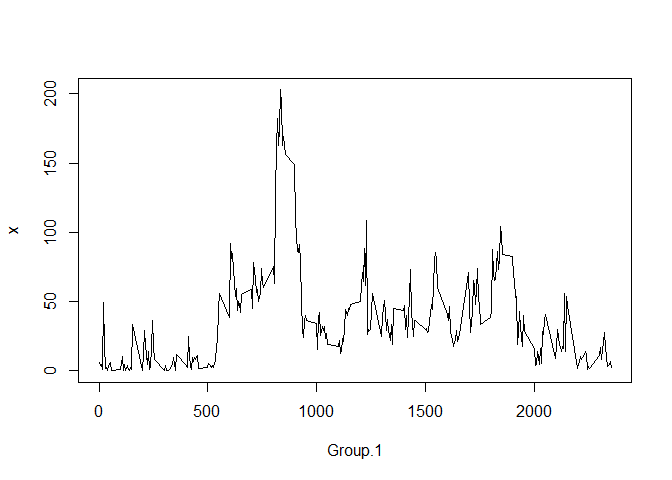
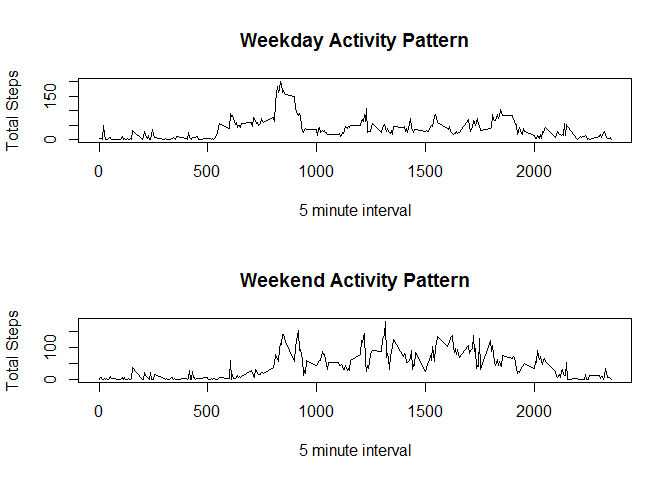
Project Submission Final

diff --git a/PA1_template.html b/PA1_template.html
@@ -104,8 +104,11 @@ colnames(activitydatatotalbydate) &lt;- c(&quot;Date&quot;, &quot;TotalSteps&quo
 <h2>Imputing missing values</h2>
 <p>For replaceing the missing values I have used the MICE package’s mice() function. Please refer to full documentation at <a href="https://cran.r-project.org/web/packages/mice/mice.pdf" class="uri">https://cran.r-project.org/web/packages/mice/mice.pdf</a>. Specifically I used the “pmm” method referenced in page 67.</p>
 <p>I have used md.patter to find the total number of missing values in the dataset (i.e. the total number of rows with NAs)</p>
-<pre class="r"><code>library(mice)
- md.pattern(activitydata)</code></pre>
+<pre class="r"><code>library(mice)</code></pre>
+<pre><code>## Warning: package 'mice' was built under R version 3.2.3</code></pre>
+<pre><code>## Loading required package: Rcpp</code></pre>
+<pre><code>## mice 2.25 2015-11-09</code></pre>
+<pre class="r"><code> md.pattern(activitydata)</code></pre>
 <pre><code>##       date interval steps     
 ## 15264    1        1     1    0
 ##  2304    1        1     0    1
@@ -138,19 +141,34 @@ However, these are not significant changes given the range of data.  I also note
 <h2>Are there differences in activity patterns between weekdays and weekends?</h2>
 <p>For this part I have used the timeDate package. I am using the completedData dataset with the filled-in missing values for this part. I create a new column called isweekday with logical values TRUE/FALSE:</p>
 <pre class="r"><code>install.packages(&quot;timeDate&quot; ,repos = &quot;http://cran.us.r-project.org&quot;)</code></pre>
-<pre><code>## Error in install.packages : Updating loaded packages</code></pre>
-<pre class="r"><code>library(dplyr)
-library(timeDate)
-adwday &lt;- mutate(completedData, isweekday= isWeekday(completedData$date, wday=1:5))
+<pre><code>## Installing package into 'C:/Users/IBM_ADMIN/Documents/R/win-library/3.2'
+## (as 'lib' is unspecified)</code></pre>
+<pre><code>## package 'timeDate' successfully unpacked and MD5 sums checked
+## 
+## The downloaded binary packages are in
+##  C:\Users\IBM_ADMIN\AppData\Local\Temp\RtmpuUUYWK\downloaded_packages</code></pre>
+<pre class="r"><code>library(dplyr)</code></pre>
+<pre><code>## 
+## Attaching package: 'dplyr'</code></pre>
+<pre><code>## The following objects are masked from 'package:stats':
+## 
+##     filter, lag</code></pre>
+<pre><code>## The following objects are masked from 'package:base':
+## 
+##     intersect, setdiff, setequal, union</code></pre>
+<pre class="r"><code>library(timeDate)</code></pre>
+<pre><code>## Warning: package 'timeDate' was built under R version 3.2.3</code></pre>
+<pre class="r"><code>adwday &lt;- mutate(completedData, isweekday= isWeekday(completedData$date, wday=1:5))
 weekdaydata &lt;-adwday[adwday$isweekday == TRUE , 1:3 ]
 weekenddata &lt;-adwday[adwday$isweekday == FALSE , 1:3 ]
 weekdaydatabyinterval &lt;- aggregate( weekdaydata[,1] , by = list(weekdaydata$interval), FUN = mean) 
 weekenddatabyinterval &lt;- aggregate( weekenddata[,1] , by = list(weekenddata$interval), FUN = mean) </code></pre>
 <pre><code>We now make a panel plot containing a time series plot (i.e. type = &quot;l&quot;) of the 5-minute interval (x-axis) and the average number of steps taken, averaged across all weekday days or weekend days (y-axis).  </code></pre>
-<pre class="r"><code>plot(weekdaydatabyinterval, type=&quot;l&quot; )</code></pre>
[1 lines of base64/hex data omitted]
-<pre class="r"><code>plot(weekenddatabyinterval, type=&quot;l&quot; )</code></pre>
[1 lines of base64/hex data omitted]
+<pre class="r"><code>par(mfrow=c(2,1))
+plot(weekdaydatabyinterval, type=&quot;l&quot; , main = &quot;Weekday Activity Pattern&quot; , xlab = &quot;5 minute interval&quot; , ylab = &quot;Total Steps&quot;)
+plot(weekenddatabyinterval, type=&quot;l&quot; , main = &quot;Weekend Activity Pattern&quot;  , xlab = &quot;5 minute interval&quot; , ylab = &quot;Total Steps&quot;)</code></pre>
[1 lines of base64/hex data omitted]
+<pre><code>This plot shows that on weekends there is more activity from afternoon through late evening.  </code></pre>
 </div>
 
 

diff --git a/PA1_template.md b/PA1_template.md
@@ -97,6 +97,21 @@ I have used md.patter to find the total number of missing values in the dataset 
 
 ```r
 library(mice)
+```
+
+```
+## Warning: package 'mice' was built under R version 3.2.3
+```
+
+```
+## Loading required package: Rcpp
+```
+
+```
+## mice 2.25 2015-11-09
+```
+
+```r
  md.pattern(activitydata)
 ```
 
@@ -181,12 +196,47 @@ install.packages("timeDate" ,repos = "http://cran.us.r-project.org")
 ```
 
 ```
-## Error in install.packages : Updating loaded packages
+## Installing package into 'C:/Users/IBM_ADMIN/Documents/R/win-library/3.2'
+## (as 'lib' is unspecified)
+```
+
+```
+## package 'timeDate' successfully unpacked and MD5 sums checked
+## 
+## The downloaded binary packages are in
+## 	C:\Users\IBM_ADMIN\AppData\Local\Temp\RtmpuUUYWK\downloaded_packages
 ```
 
 ```r
 library(dplyr)
+```
+
+```
+## 
+## Attaching package: 'dplyr'
+```
+
+```
+## The following objects are masked from 'package:stats':
+## 
+##     filter, lag
+```
+
+```
+## The following objects are masked from 'package:base':
+## 
+##     intersect, setdiff, setequal, union
+```
+
+```r
 library(timeDate)
+```
+
+```
+## Warning: package 'timeDate' was built under R version 3.2.3
+```
+
+```r
 adwday <- mutate(completedData, isweekday= isWeekday(completedData$date, wday=1:5))
 weekdaydata <-adwday[adwday$isweekday == TRUE , 1:3 ]
 weekenddata <-adwday[adwday$isweekday == FALSE , 1:3 ]
@@ -199,13 +249,11 @@ weekenddatabyinterval <- aggregate( weekenddata[,1] , by = list(weekenddata$inte
 
 
 ```r
-plot(weekdaydatabyinterval, type="l" )
+par(mfrow=c(2,1))
+plot(weekdaydatabyinterval, type="l" , main = "Weekday Activity Pattern" , xlab = "5 minute interval" , ylab = "Total Steps")
+plot(weekenddatabyinterval, type="l" , main = "Weekend Activity Pattern"  , xlab = "5 minute interval" , ylab = "Total Steps")
 ```
 
 ![](PA1_template_files/figure-html/unnamed-chunk-11-1.png)
 
-```r
-plot(weekenddatabyinterval, type="l" )
-```
-
-![](PA1_template_files/figure-html/unnamed-chunk-11-2.png)
+    This plot shows that on weekends there is more activity from afternoon through late evening.  
